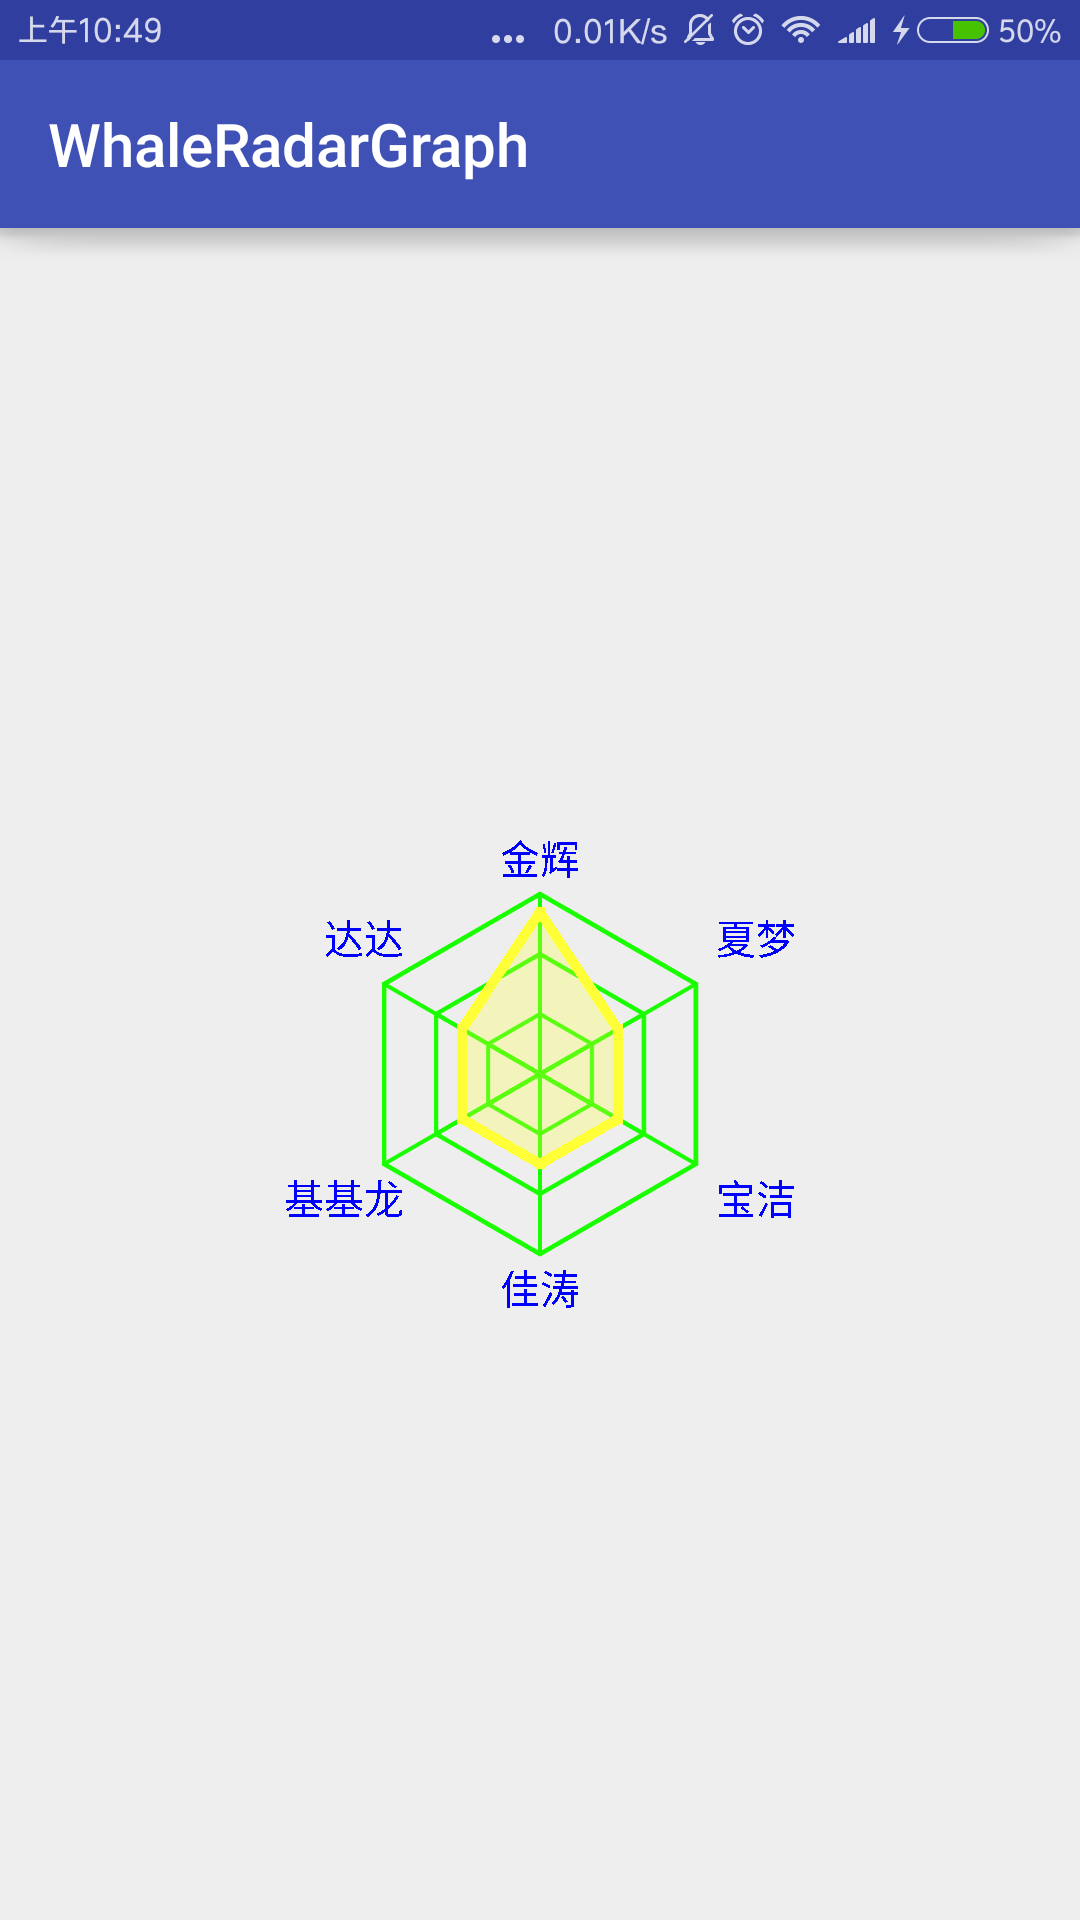
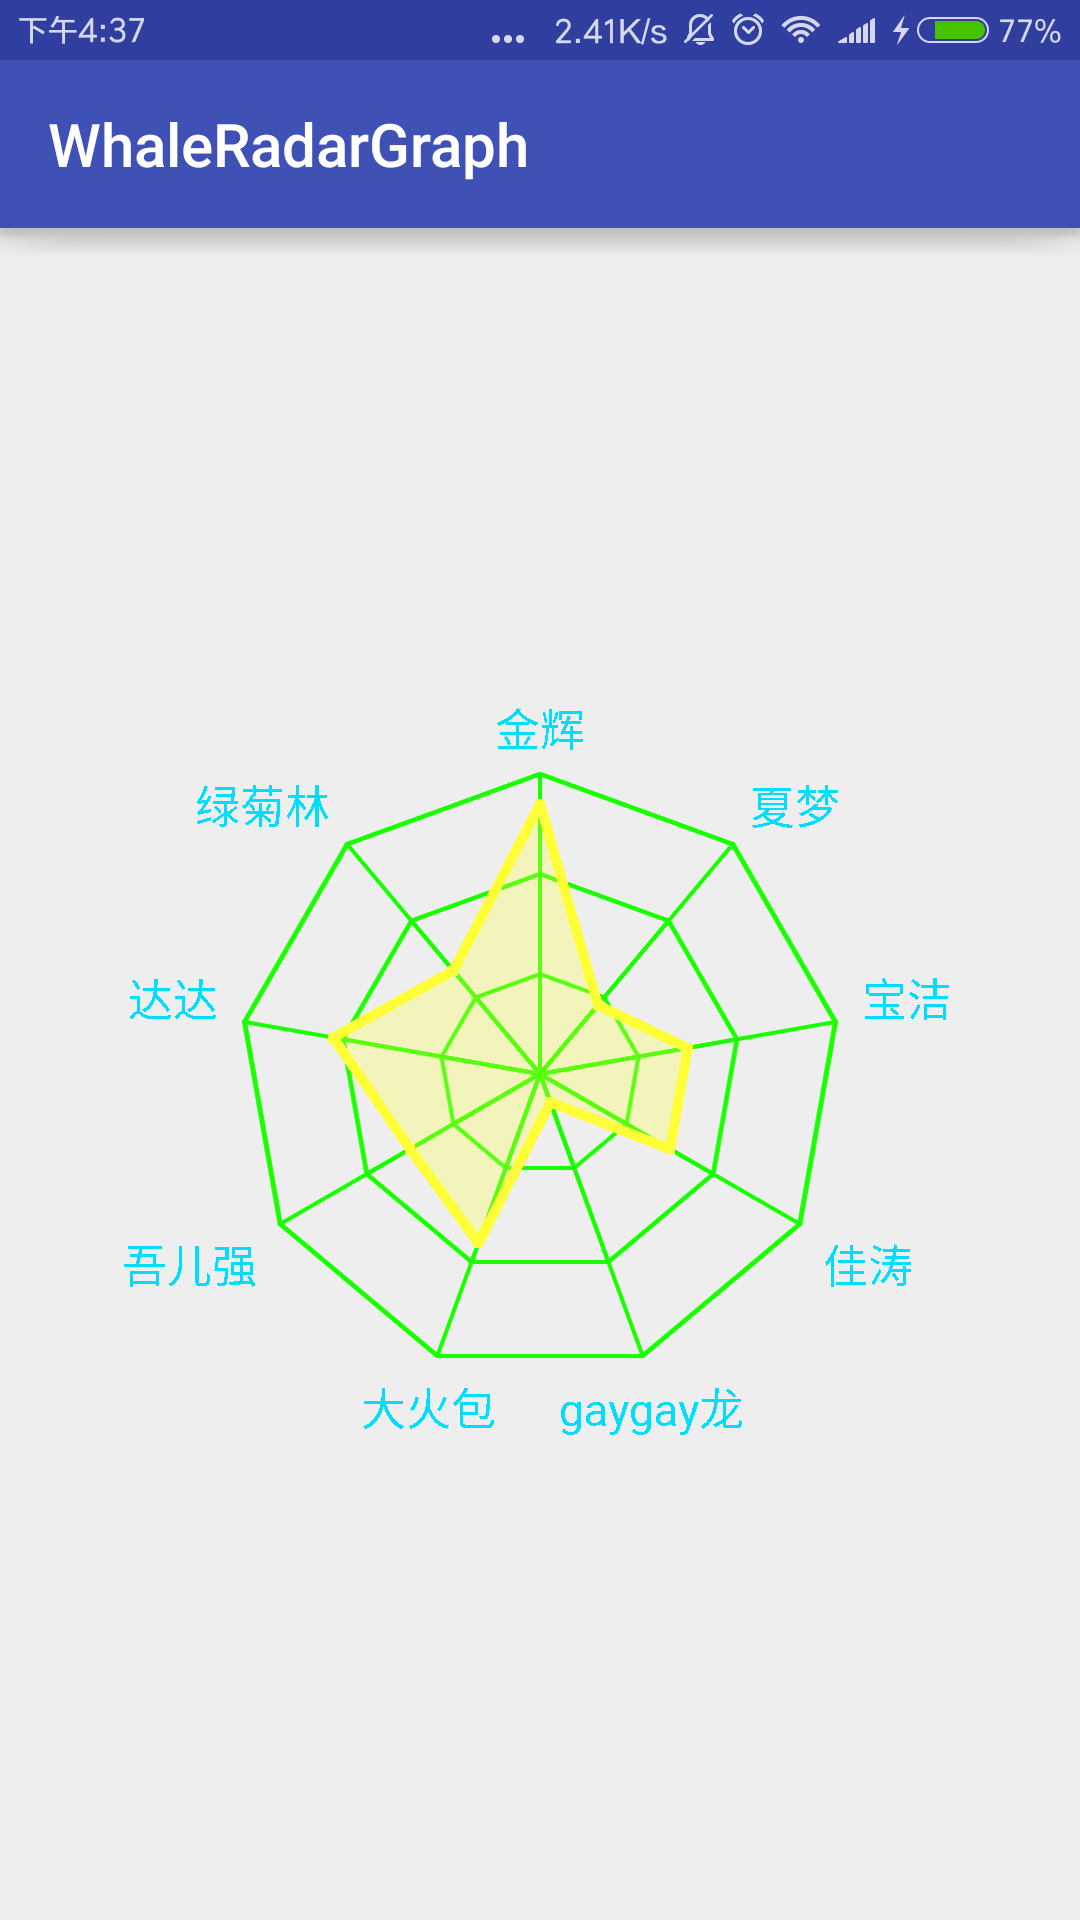
Signed-off-by: kinghui <349415101@qq.com>

diff --git a/app/src/main/java/com/huayuxun/whale/whaleradargraph/widget/WhaleRadarGraph.java b/app/src/main/java/com/huayuxun/whale/whaleradargraph/widget/WhaleRadarGraph.java
@@ -11,6 +11,7 @@ import android.util.Log;
 import android.util.Pair;
 import android.util.TypedValue;
 import android.view.View;
+
 import com.huayuxun.whale.whaleradargraph.R;
 
 import java.util.ArrayList;
@@ -21,17 +22,24 @@ import java.util.List;
  */
 
 public class WhaleRadarGraph extends View {
-    private int mRadius;           //外界多边形的半径  CircleRadius
+    private float mRadius;           //外界多边形的半径  CircleRadius
     private int mLevel;           //外圈层数
     private int mLineColor;       //线条颜色
     private int mShapeColor;      //内多边形颜色
-    private int mShapeSpan;       //多边形的间隔
-    private List<Pair<String,Float>> mRadarAttrData;//雷达图的属性
+    private int mTextColor;      //文字颜色
+    private float mShapeSpan;       //多边形的间隔
+    private float mDistance;          //文字到该点的距离
+    private List<Pair<String, Float>> mRadarAttrData;//雷达图的属性
     private double mPerAngle;
     private int mWidth;
     private int mHeight;
     private Paint mPaint;
     private int mOverLayerAlph;     //覆盖层的透明度
+
+    private Paint mTextPaint;       //绘制文字画笔
+    private float mTextSize;          //文字的大小
+
+
     public WhaleRadarGraph(Context context) {
         this(context, null);
     }
@@ -56,20 +64,32 @@ public class WhaleRadarGraph extends View {
                     mLineColor = typedArray.getColor(att, Color.GREEN);
                     break;
                 case R.styleable.WhaleRadarGraph_radius:
-                    mRadius = typedArray.getDimensionPixelSize(R.styleable.WhaleRadarGraph_radius, (int) TypedValue.applyDimension(TypedValue.COMPLEX_UNIT_SP, 5, getResources().getDisplayMetrics()));
+                    mRadius = typedArray.getDimension(R.styleable.WhaleRadarGraph_radius, (float) TypedValue.applyDimension(TypedValue.COMPLEX_UNIT_DIP, 5, getResources().getDisplayMetrics()));
                     break;
                 case R.styleable.WhaleRadarGraph_shapeSpan:
-                    mShapeSpan = typedArray.getDimensionPixelSize(R.styleable.WhaleRadarGraph_shapeSpan, (int) TypedValue.applyDimension(TypedValue.COMPLEX_UNIT_SP, 5, getResources().getDisplayMetrics()));
+                    mShapeSpan = typedArray.getDimension(R.styleable.WhaleRadarGraph_shapeSpan, (float) TypedValue.applyDimension(TypedValue.COMPLEX_UNIT_DIP, 5, getResources().getDisplayMetrics()));
                     break;
                 case R.styleable.WhaleRadarGraph_overLayerAlph:
                     mOverLayerAlph = typedArray.getInt(R.styleable.WhaleRadarGraph_overLayerAlph, 50);
+                    break;
+                case R.styleable.WhaleRadarGraph_textColor:
+                    mTextColor = typedArray.getColor(att, Color.BLUE);
+                    break;
+                case R.styleable.WhaleRadarGraph_textSize:
+                    mTextSize = typedArray.getDimension(R.styleable.WhaleRadarGraph_textSize, (float) TypedValue.applyDimension(TypedValue.COMPLEX_UNIT_SP, 10, getResources().getDisplayMetrics()));
+                    break;
+                case R.styleable.WhaleRadarGraph_distance:
+                    mDistance = typedArray.getDimension(R.styleable.WhaleRadarGraph_distance, (float) TypedValue.applyDimension(TypedValue.COMPLEX_UNIT_DIP, 10, getResources().getDisplayMetrics()));
                     break;
             }
         }
         typedArray.recycle();
         mRadarAttrData = new ArrayList<>();
         mPaint = new Paint();
-
+        mTextPaint = new Paint();
+        mTextPaint.setStrokeWidth(3);
+        mTextPaint.setTextSize(mTextSize);
+        mTextPaint.setColor(mTextColor);
     }
 
     public WhaleRadarGraph(Context context, AttributeSet attrs, int defStyleAttr, int defStyleRes) {
@@ -80,6 +100,7 @@ public class WhaleRadarGraph extends View {
     protected void onLayout(boolean changed, int left, int top, int right, int bottom) {
         super.onLayout(changed, left, top, right, bottom);
     }
+
 
     @Override
     protected void onSizeChanged(int w, int h, int oldw, int oldh) {
@@ -98,7 +119,7 @@ public class WhaleRadarGraph extends View {
     @Override
     protected void onDraw(Canvas canvas) {
         super.onDraw(canvas);
-        if(mRadarAttrData.size() < 3) {
+        if (mRadarAttrData.size() < 3) {
             return;
         }
         initShape(canvas, mRadius, mLineColor, mLevel, mShapeSpan);
@@ -106,25 +127,21 @@ public class WhaleRadarGraph extends View {
     }
 
     //maxvalue：1
-    public void addData(String attrName ,float attrValue){
-        mRadarAttrData.add(new Pair<String, Float>(attrName,attrValue));
+    public void addData(String attrName, float attrValue) {
+        mRadarAttrData.add(new Pair<String, Float>(attrName, attrValue));
     }
 
     //maxvalue：maxvalue
-    public void addData(String attrName ,float attrValue,float maxvalue){
-        mRadarAttrData.add(new Pair<String, Float>(attrName,attrValue/maxvalue));
+    public void addData(String attrName, float attrValue, float maxvalue) {
+        mRadarAttrData.add(new Pair<String, Float>(attrName, attrValue / maxvalue));
         invalidate();
     }
 
 
     //初始化多边形以及轴线
-    public void initShape(Canvas canvas, int radius, int lineColor, int level, int shapeSpan) {
+    public void initShape(Canvas canvas, float radius, int lineColor, int level, float shapeSpan) {
         canvas.save();
         canvas.translate(mWidth / 2, mHeight / 2);
-        Paint textPaint = new Paint();
-        textPaint.setStrokeWidth(3);
-        textPaint.setTextSize(40);
-        textPaint.setColor(Color.BLUE);
         mPaint.setColor(lineColor);
         mPaint.setStrokeWidth(4);
         mPaint.setAntiAlias(true);
@@ -132,60 +149,71 @@ public class WhaleRadarGraph extends View {
         mPerAngle = 2 * Math.PI / mRadarAttrData.size();
         Path path = new Path();
         for (int i = 0; i < level; i++) {
-            int span = i * radius / level;
+            float span = i * radius / level;
             for (int j = 0; j < mRadarAttrData.size(); j++) {
                 double testx = (radius - span) * Math.sin(mPerAngle * j);
                 double testy = (radius - span) * Math.cos(mPerAngle * j);
                 //第一个点处理起来比较麻烦
                 if (j == 0) {
                     path.moveTo(0, -(float) (radius - span));
-                    textPaint.setTextAlign(Paint.Align.CENTER);
-                    canvas.drawText(mRadarAttrData.get(0).first,(float)0,-(float) (radius + 20),textPaint);
+                    mTextPaint.setTextAlign(Paint.Align.CENTER);
+                    canvas.drawText(mRadarAttrData.get(0).first, (float) 0, -(float) (radius + mDistance), mTextPaint);
                     canvas.drawPoint(0, -(float) (radius - span), mPaint);
                     canvas.drawLine(0, 0, 0, -(float) (radius - span), mPaint);
                 } else {
                     path.lineTo((float) testx, -(float) testy);
                     canvas.drawPoint((float) testx, -(float) testy, mPaint);
                     canvas.drawLine(0, 0, (float) testx, -(float) testy, mPaint);
-                    if(mRadarAttrData.size()%2 == 0 && j == mRadarAttrData.size()/2 ) {
-                        textPaint.setTextAlign(Paint.Align.CENTER);
-                        canvas.drawText(mRadarAttrData.get(j).first, (float) (radius * Math.sin(mPerAngle * j)) , -(float) ((radius) * Math.cos(mPerAngle * j))     + 50, textPaint);
+                    if (mRadarAttrData.size() % 2 == 0 && j == mRadarAttrData.size() / 2) {
+                        mTextPaint.setTextAlign(Paint.Align.CENTER);
+                        canvas.drawText(mRadarAttrData.get(j).first, (float) ((radius + mDistance + mTextSize) * Math.sin(mPerAngle * j)), -(float) (((radius + mDistance + mTextSize)) * Math.cos(mPerAngle * j)), mTextPaint);
                     }
 
                     //Y轴正坐标上，Y轴和X轴上的点需要特别去处理，因为绘制文字，你的文字要居中放置
-                    else if( mRadarAttrData.size() % 4 == 0 && j == mRadarAttrData.size()/4 ){
-                        textPaint.setTextAlign(Paint.Align.LEFT);
-                        Log.e("Math.sin--》",Math.sin(mPerAngle * j)+"");
-                        canvas.drawText(mRadarAttrData.get(j).first, (float) (radius * Math.sin(mPerAngle * j)) + 20, -(float) ((radius) * Math.cos(mPerAngle * j)) , textPaint);
+                    //x轴的正坐标上
+                    else if (mRadarAttrData.size() % 4 == 0 && j == mRadarAttrData.size() / 4) {
+                        mTextPaint.setTextAlign(Paint.Align.LEFT);
+                        Log.e("Math.sin--》", Math.sin(mPerAngle * j) + "");
+                        canvas.drawText(mRadarAttrData.get(j).first, (float) ((radius + mDistance) * Math.sin(mPerAngle * j)), -(float) ((radius + mDistance) * Math.cos(mPerAngle * j)) + mTextSize / 2.5f, mTextPaint);
                     }
-                    else if( mRadarAttrData.size() % 4 == 0 && j == mRadarAttrData.size()/4 * 3 ){
-                        textPaint.setTextAlign(Paint.Align.RIGHT);
-                        Log.e("Math.sin--》",Math.sin(mPerAngle * j)+"");
-                        canvas.drawText(mRadarAttrData.get(j).first, (float) (radius * Math.sin(mPerAngle * j)) - 20, -(float) ((radius) * Math.cos(mPerAngle * j)) , textPaint);
+                    //x轴的负坐标上
+                    else if (mRadarAttrData.size() % 4 == 0 && j == mRadarAttrData.size() / 4 * 3) {
+                        mTextPaint.setTextAlign(Paint.Align.RIGHT);
+                        Log.e("Math.sin--》", Math.sin(mPerAngle * j) + "");
+                        canvas.drawText(mRadarAttrData.get(j).first, (float) ((radius + mDistance) * Math.sin(mPerAngle * j)), -(float) ((radius + mDistance) * Math.cos(mPerAngle * j)) + mTextSize / 2.5f, mTextPaint);
                     }
                     //第一象限
-                    else if(Math.sin(mPerAngle * j)>0 && Math.cos(mPerAngle * j)>0){
-                        textPaint.setTextAlign(Paint.Align.LEFT);
-                        Log.e("Math.sin--》",Math.sin(mPerAngle * j)+"");
-                        canvas.drawText(mRadarAttrData.get(j).first, (float) (radius * Math.sin(mPerAngle * j)) + 20, -(float) ((radius) * Math.cos(mPerAngle * j)) - 30, textPaint);
+                    else if (Math.sin(mPerAngle * j) > 0 && Math.cos(mPerAngle * j) > 0) {
+                        mTextPaint.setTextAlign(Paint.Align.LEFT);
+                        Log.e("Math.sin--》", Math.sin(mPerAngle * j) + "");
+                        canvas.drawText(mRadarAttrData.get(j).first, (float) ((radius + mDistance) * Math.sin(mPerAngle * j)), -(float) (((radius + mDistance)) * Math.cos(mPerAngle * j)), mTextPaint);
                     }
                     //第二象限
-                    else if(Math.sin(mPerAngle * j)>0 && Math.cos(mPerAngle * j)<0){
-                        textPaint.setTextAlign(Paint.Align.LEFT);
-                        Log.e("Math.sin--》",Math.sin(mPerAngle * j)+"");
-                        canvas.drawText(mRadarAttrData.get(j).first, (float) (radius * Math.sin(mPerAngle * j)) + 20, -(float) ((radius) * Math.cos(mPerAngle * j)) + 50, textPaint);
+                    else if (Math.sin(mPerAngle * j) > 0 && Math.cos(mPerAngle * j) < 0) {
+                        if (mRadarAttrData.size() % 2 != 0 && j == mRadarAttrData.size()/2) {
+                            mTextPaint.setTextAlign(Paint.Align.CENTER);
+                        } else {
+                            mTextPaint.setTextAlign(Paint.Align.LEFT);
+                        }
+                        Log.e("Math.sin--》", Math.sin(mPerAngle * j) + "");
+                        canvas.drawText(mRadarAttrData.get(j).first, (float) ((radius + mDistance) * Math.sin(mPerAngle * j)), -(float) (((radius + mDistance)) * Math.cos(mPerAngle * j)) + mTextSize, mTextPaint);
                     }
                     //第三象限
-                    else if(Math.sin(mPerAngle * j)<0 && Math.cos(mPerAngle * j)<0){
-                        textPaint.setTextAlign(Paint.Align.RIGHT);
-                        Log.e("Math.sin--》",Math.sin(mPerAngle * j)+"");
-                        canvas.drawText(mRadarAttrData.get(j).first, (float) (radius * Math.sin(mPerAngle * j)) + 20, -(float) ((radius) * Math.cos(mPerAngle * j)) + 50, textPaint);
+                    else if (Math.sin(mPerAngle * j) < 0 && Math.cos(mPerAngle * j) < 0) {
+                        if (mRadarAttrData.size() % 2 !=  0 && j  == mRadarAttrData.size()/2 + 1) {
+                            mTextPaint.setTextAlign(Paint.Align.CENTER);
+                        } else {
+                            mTextPaint.setTextAlign(Paint.Align.RIGHT);
+                        }
+                        Log.e("Math.sin--》", Math.sin(mPerAngle * j) + "");
+                        canvas.drawText(mRadarAttrData.get(j).first, (float) ((radius + mDistance) * Math.sin(mPerAngle * j)), -(float) (((radius + mDistance)) * Math.cos(mPerAngle * j)) + mTextSize, mTextPaint);
                     }
                     //第四象限
-                    else if(Math.sin(mPerAngle * j)<0 && Math.cos(mPerAngle * j)>0){
-                        textPaint.setTextAlign(Paint.Align.RIGHT);
-                        Log.e("Math.sin--》",Math.sin(mPerAngle * j)+"");
-                        canvas.drawText(mRadarAttrData.get(j).first, (float) (radius * Math.sin(mPerAngle * j)) + 20, -(float) ((radius) * Math.cos(mPerAngle * j)) - 30, textPaint);
+                    else if (Math.sin(mPerAngle * j) < 0 && Math.cos(mPerAngle * j) > 0) {
+                        mTextPaint.setTextAlign(Paint.Align.RIGHT);
+                        Log.e("Math.sin--》", Math.sin(mPerAngle * j) + "");
+                        canvas.drawText(mRadarAttrData.get(j).first, (float) ((radius + mDistance) * Math.sin(mPerAngle * j)), -(float) ((radius + mDistance) * Math.cos(mPerAngle * j)), mTextPaint);
+
                     }
                 }
             }
@@ -193,6 +221,12 @@ public class WhaleRadarGraph extends View {
             canvas.drawPath(path, mPaint);
         }
         canvas.restore();
+    }
+
+
+    public void getTextSize() {
+        Log.e("" + mTextSize, "----------->>>>>>>>>>catch");
+        Log.e("" + mRadius, "----------->>>>>>>>>>catch");
     }
 
     //根据百分比绘制黄色或则其它颜色多边形
@@ -209,26 +243,26 @@ public class WhaleRadarGraph extends View {
         canvas.translate(mWidth / 2, mHeight / 2);
         Path path = new Path();
         for (int j = 0; j < mRadarAttrData.size(); j++) {
-            double testx = (mRadius * mRadarAttrData.get(j).second)     * Math.sin(mPerAngle * j);
-            double testy = (mRadius * mRadarAttrData.get(j).second)     * Math.cos(mPerAngle * j);
+            double testx = (mRadius * mRadarAttrData.get(j).second) * Math.sin(mPerAngle * j);
+            double testy = (mRadius * mRadarAttrData.get(j).second) * Math.cos(mPerAngle * j);
             double nextTestx;
             double nextTesty;
-            if(j != mRadarAttrData.size() - 1 ) {
+            if (j != mRadarAttrData.size() - 1) {
                 nextTestx = (mRadius * mRadarAttrData.get(j + 1).second) * Math.sin(mPerAngle * (j + 1));
                 nextTesty = (mRadius * mRadarAttrData.get(j + 1).second) * Math.cos(mPerAngle * (j + 1));
-            }else{
+            } else {
                 nextTestx = 0;
                 nextTesty = mRadius * mRadarAttrData.get(0).second;
             }
             if (j == 0) {
                 path.moveTo(0, -(float) (mRadius * mRadarAttrData.get(0).second));
                 canvas.drawPoint(0, -(float) (mRadius * mRadarAttrData.get(0).second), pointPaint);
-                canvas.drawLine(0,-(float) (mRadius * mRadarAttrData.get(0).second), (float) nextTestx, -(float) nextTesty, pointPaint);
+                canvas.drawLine(0, -(float) (mRadius * mRadarAttrData.get(0).second), (float) nextTestx, -(float) nextTesty, pointPaint);
 
             } else {
                 path.lineTo((float) testx, -(float) testy);
                 canvas.drawPoint((float) testx, -(float) testy, pointPaint);
-                canvas.drawLine((float)testx,-(float)testy, (float) nextTestx, -(float) nextTesty , pointPaint);
+                canvas.drawLine((float) testx, -(float) testy, (float) nextTestx, -(float) nextTesty, pointPaint);
             }
         }
         path.close();
@@ -236,5 +270,4 @@ public class WhaleRadarGraph extends View {
         canvas.restore();
 
     }
-
 }

diff --git a/app/src/main/java/com/huayuxun/whale/whaleradargraph/MainActivity.java b/app/src/main/java/com/huayuxun/whale/whaleradargraph/MainActivity.java
@@ -2,6 +2,8 @@ package com.huayuxun.whale.whaleradargraph;
 
 import android.support.v7.app.AppCompatActivity;
 import android.os.Bundle;
+import android.util.DisplayMetrics;
+import android.util.Log;
 
 import com.huayuxun.whale.whaleradargraph.widget.WhaleRadarGraph;
 
@@ -13,7 +15,24 @@ public class MainActivity extends AppCompatActivity {
         setContentView(R.layout.activity_main);
         mWhaleRadarGraph = (WhaleRadarGraph)findViewById(R.id.wrg_main_activity);
         mWhaleRadarGraph.addData("金辉",0.9f);
-        mWhaleRadarGraph.addData("基基龙",0.5f);
-        mWhaleRadarGraph.addData("达达",0.5f);
+        mWhaleRadarGraph.addData("夏梦",0.3f);
+        mWhaleRadarGraph.addData("宝洁",0.5f);
+        mWhaleRadarGraph.addData("佳涛",0.5f);
+        mWhaleRadarGraph.addData("gaygay龙",0.1f);
+        mWhaleRadarGraph.addData("大火包",0.6f);
+        mWhaleRadarGraph.addData("吾儿强",0.5f);
+        mWhaleRadarGraph.addData("达达",0.7f);
+        mWhaleRadarGraph.addData("绿菊林",0.45f);
+        mWhaleRadarGraph.getTextSize();
+
+        DisplayMetrics metric = new DisplayMetrics();
+        getWindowManager().getDefaultDisplay().getMetrics(metric);
+
+        int width = metric.widthPixels;  // 宽度（PX）
+        int height = metric.heightPixels;  // 高度（PX）
+
+        float density = metric.density;  // 密度（0.75 / 1.0 / 1.5）
+        int densityDpi = metric.densityDpi;  // 密度DPI（120 / 160 / 240）
+        Log.e("densityDpi:",densityDpi+"");
     }
 }
